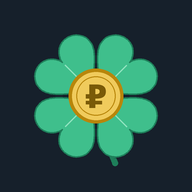
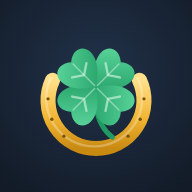
Версия 2.23: новая иконка — клевер в подкове
Четырёхлистный клевер (листья-сердечки) в золотой подкове концами вверх,
на тёмно-синем фоне приложения. Всё важное в безопасной зоне маски Android.

Claude-Session: https://claude.ai/code/session_01LJJgig4jXJhMQYivgtvv5M

Changed region(s): [[0.1562, 0.1562, 0.8438, 0.875]]

diff --git a/index.html b/index.html
@@ -260,7 +260,7 @@ function catTitle(t){return (t.cat||'Другое')+(t.sub?' · '+t.sub:'');}
 function catIcon(c){return esc(EMO[c]||(S.settings.catIcons&&S.settings.catIcons[c])||'🏷');}
 var AUTO_DEFAULT={date:'2026-09-19',src:'ЦБ РФ',rub:{RUB:1,USD:84.1975,EUR:96.6671,GBP:112.4289,CNY:12.567,JPY:0.535948,CHF:102.1071,AUD:59.9991,CAD:60.1927,VND:0.00328422,THB:2.53058,KRW:0.0609994,AED:22.9265,TRY:1.73135,KZT:0.189387,IDR:0.00474272,SGD:66.0114,HKD:10.7313,GEL:32.2893,INR:0.878971,UAH:1.8847,BYN:27.8486,PLN:22.1584,CZK:3.96447,SEK:8.57625,NOK:8.93001,NZD:48.1736,BRL:16.3433}};
 var KEY='fin-mvp-v1', TKEY='fin-mvp-theme';
-var VERSION='2.22';
+var VERSION='2.23';
 var NEW_VERSION=null;
 var DEF_FAVS=['RUB','VND','USD','USDT'];
 var NAMES={RUB:'российский рубль',VND:'вьетнамский донг',USD:'доллар США',EUR:'евро',GBP:'фунт стерлингов',CNY:'китайский юань',JPY:'японская иена',CHF:'швейцарский франк',AUD:'австралийский доллар',CAD:'канадский доллар',THB:'тайский бат',KRW:'южнокорейская вона',AED:'дирхам ОАЭ',TRY:'турецкая лира',KZT:'казахстанский тенге',BTC:'биткоин bitcoin',ETH:'эфириум ethereum',USDT:'tether тезер',USDC:'usd coin',BNB:'bnb binance',SOL:'solana солана',XRP:'xrp ripple',ADA:'cardano кардано',DOGE:'dogecoin доге',TON:'toncoin тон'};
@@ -1329,6 +1329,7 @@ function renderTplEdit(){
   openSheet('<h2>Шаблон</h2><div class="small muted">'+esc(x.cat)+' · '+(a?esc(a.name):'—')+'</div><label>Название<input data-f="name" value="'+esc(F.name)+'" autocomplete="off"></label><label>Сумма<div class="amtwrap"><input inputmode="decimal" data-f="amountS" value="'+esc(F.amountS)+'" autocomplete="off"><span>'+(a?a.cur:'')+'</span></div></label><button class="btn" data-a="savetpl">Сохранить</button><button class="btn ghost" data-a="deltpl">Удалить шаблон</button>');
 }
 var CHANGELOG=[
+  {v:'2.23',items:['Новая иконка: четырёхлистный клевер в золотой подкове']},
   {v:'2.22',items:['Новая категория «Мопед» с подкатегориями «Топливо», «Обслуживание» и «Покупка»','Траты «Мопед · Покупка» не входят в среднюю трату в день — разовая крупная покупка не портит прогнозы и «Пульс месяца»','У «Транспорта» теперь значок 🚕, чтобы не путать с мопедом']},
   {v:'2.21',items:['Свой календарь для выбора даты вместо браузерного — открывается на любом телефоне','Быстрые кнопки «Сегодня · Вчера · Позавчера» при вводе операции и накоплений']},
   {v:'2.20',items:['Накопления: у каждой валюты виден рублёвый эквивалент по курсу покупки и стоимость по рынку сегодня, с разницей','Новый раздел «Финпомощник» в «Ещё»: сводка твоих финансов для Claude — скачать файлом или скопировать текстом, и ссылка на страницу помощника в claude.ai']},

diff --git a/DEVELOPMENT.md b/DEVELOPMENT.md
@@ -8,7 +8,7 @@
 ## Структура репозитория
 - `index.html` — всё приложение (HTML+CSS+JS в одном файле)
 - `manifest.webmanifest`, `sw.js` — PWA-обвязка (офлайн-кеш, установка на экран)
-- `icon-192.png`, `icon-512.png` — иконка (клевер с монетой)
+- `icon-192.png`, `icon-512.png` — иконка (четырёхлистный клевер в золотой подкове, с 2.23; исходник — SVG, всё важное в центральных 80% под маску Android)
 - `version.json` — текущая версия; приложение сверяет её при открытии и показывает баннер «Доступно обновление», если на сервере версия новее
 - `README.md` — короткое описание для гостя репозитория
 
